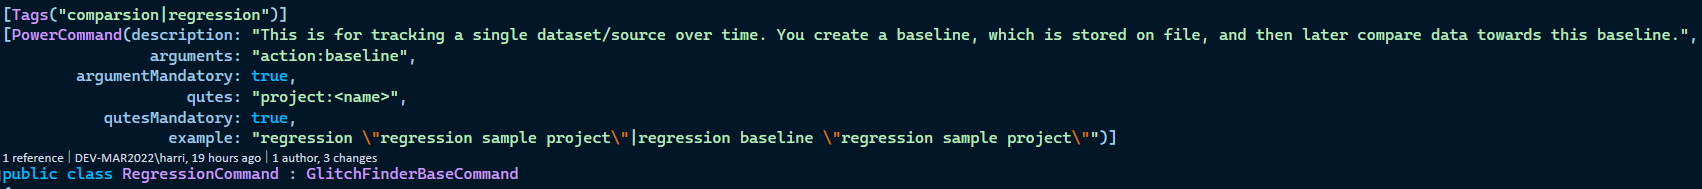
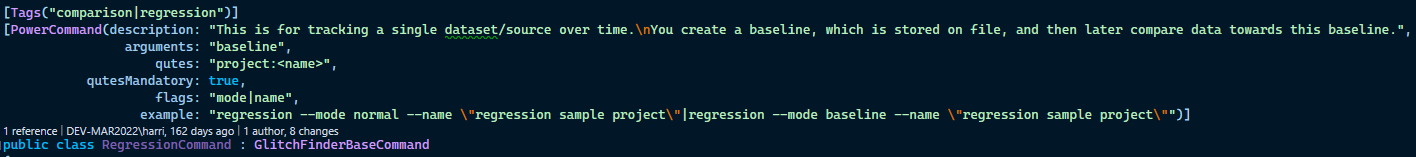
Updated flags funtionallity and documentation regarding it

diff --git a/src/PainKiller.PowerCommands/Core/PainKiller.PowerCommands.ReadLine/Managers/SuggestionProviderManager.cs b/src/PainKiller.PowerCommands/Core/PainKiller.PowerCommands.ReadLine/Managers/SuggestionProviderManager.cs
@@ -5,11 +5,7 @@ public class SuggestionProviderManager
     private static readonly Dictionary<string, string[]> ContextBoundSuggestions = new();
 
     public Func<string, string[]> SuggestionProviderFunc;
-    public SuggestionProviderManager()
-    {
-        SuggestionProviderFunc = GetSuggestions;
-    }
-
+    public SuggestionProviderManager() => SuggestionProviderFunc = GetSuggestions;
     public static void AddFContextBoundSuggestions(string contextId, string[] suggestions)
     {
         if(!ContextBoundSuggestions.ContainsKey(contextId)) ContextBoundSuggestions.Add(contextId, suggestions);
@@ -25,10 +21,7 @@ public class SuggestionProviderManager
             var contextId = inputs.First();
             inputs.RemoveAt(0);
 
-            if (ContextBoundSuggestions.ContainsKey(contextId) && inputs.Last().StartsWith("-"))
-            {
-                return ContextBoundSuggestions.Where(c => c.Key == contextId).Select(c => c.Value).First();
-            }
+            if (ContextBoundSuggestions.ContainsKey(contextId) && inputs.Last().StartsWith("-")) return ContextBoundSuggestions.Where(c => c.Key == contextId).Select(c => c.Value).First();
 
             var buildPath = new List<string>();
             var startOfPathNotFound = true;

diff --git a/PowerCommands Design Principles And Guidlines.md b/PowerCommands Design Principles And Guidlines.md
@@ -16,7 +16,6 @@
 	* [Write generic custom modules](#Writegenericcustommodules)
 * [Reflection](#Reflection)
 * [Reserved Command namess](#ReservedCommandnamess)
-* [--help flagg](#helpflagg)
 * [Directoriess](#Directoriess)
 * [Store secrets outside the application path](#Storesecretsoutsidetheapplicationpath)
 * [Use the secrets built in functionallity](#Usethesecretsbuiltinfunctionallity)
@@ -30,8 +29,8 @@
 * [Configuration could be shared by clients](#Configurationcouldbesharedbyclients)
 * [Use Markdown format](#UseMarkdownformat)
 * [Always describe your PowerCommands](#AlwaysdescribeyourPowerCommands)
-* [Use Tags and PowerCommand attributes](#UseTagsandPowerCommandattributes)
-* [Dependancy diagram](#Dependancydiagram)
+* [Use PowerCommand attribute](#UsePowerCommandattribute)
+* [Flags](#Flags)
 
 <!-- vscode-markdown-toc-config
 	numbering=false
@@ -209,6 +208,8 @@ There are other ways you can solve the design to, you can solve it with two Comm
 You could look here for inspiration:
 [10 design principles for delightful CLIs](https://blog.developer.atlassian.com/10-design-principles-for-delightful-clis/)
 
+Dont forget to describe your Commands, read more about that under [Always describe your PowerCommands](#AlwaysdescribeyourPowerCommands)
+
 ## <a name='ExtendPowerCommand'></a>Extend PowerCommand
 
 ### <a name='AvoidchangesinthePowerCommandCoreextendinstead'></a>Avoid changes in the PowerCommand Core, extend instead
@@ -236,14 +237,10 @@ PowerCommands rely on reflection to find all existing PowerCommands that are val
  - DescribeCommand
  - NewCommand 
 
-## <a name='helpflagg'></a>--help flagg
- The flag --help is handled by the Core framework but you could override that behaviour whith the PowerCommandsAttribute field **overrideHelpFlag**
- If you set the value to **true** you should implement your own action to show somekind of help for the user.
-
  This could of cours change in the future and the documentation may not be updated, you could easliy check the reserved commands using this command in the Console:
 
  ```
- commands ! 
+ commands --reserved 
  ``` 
 ## <a name='Directoriess'></a>Directoriess
  Guidlines for naming directories
@@ -332,18 +329,40 @@ In such cases they should support the identical configuration structure otherwis
  The format of dokumentation in text should use the markdown format.
 ## <a name='AlwaysdescribeyourPowerCommands'></a>Always describe your PowerCommands
  Be kind to your consumer as it often turn out to be you that are the consumer, fill in a shourt description of what the PowerCommand is doing and how to use it.
-## <a name='UseTagsandPowerCommandattributes'></a>Use Tags and PowerCommand attributes
+## <a name='UsePowerCommandattribute'></a>Use PowerCommand attribute
 This is an example where every property of the attributes is used
 
 ![Alt text](attributes.png?raw=true "Attributes")
-Attributes is used to show a nice description of the command with the built in describe command.
+Attributes is used to show a nice description of the command with the built in describe command. 
 
 ```
 describe cls
 ```
 ![Alt text](describe.png?raw=true "Describe")
 
-Tags attribute is used to make searches with the commands command.
+But it is just not for displaying the help, the flag property and the suggestion property of the PowerCommandAttribute controls suggestions provided by intellisense, you should really take advantage of that.
+
+## <a name='Flags'></a>Flags
+In the example image showing usage of the attributes you could se that the flags: property is set to **"mode|name"**, that means that this command has two flags one named **mode** and the other one is **name**. This will give the user autocomplete feedback when typing - and using the [Tab] tangent.
+
+Programatically you can use Flags in two ways, you could grab the value, wich is the parameter typed after the flag, like this (using the RegressionCommand as example, it is a user created command).
+
+``` regression --mode normal --name "My sample project" ```
+
+To get the value of the **mode** flag you code like this:
+
+``` var mode = input.GetFlagValue("mode"); ```
+
+Sometimes you just want a flag without a value, you can solve that like this:
+
+``` var mode = input.HasFlag("xml"); ```
+
+### Do not use the help flag, unless you want to override it´s behaviour
+It will not harm anything but --help will trigger the Core frameowrk to display generic help (using the PowerCommands attriute).
+You can override this behaviour if you set the property **overrideHelpFlag** to true. Do not do that if your not intend to implement your own show help functionalllity for that command.
+
+## Tags attribute
+Tags attribute is used to make searches with the commands command, it could be useful if your pilling upp many Commands in your project. But it is not necessary to add them.
 
 ```
 commands tag "help"
